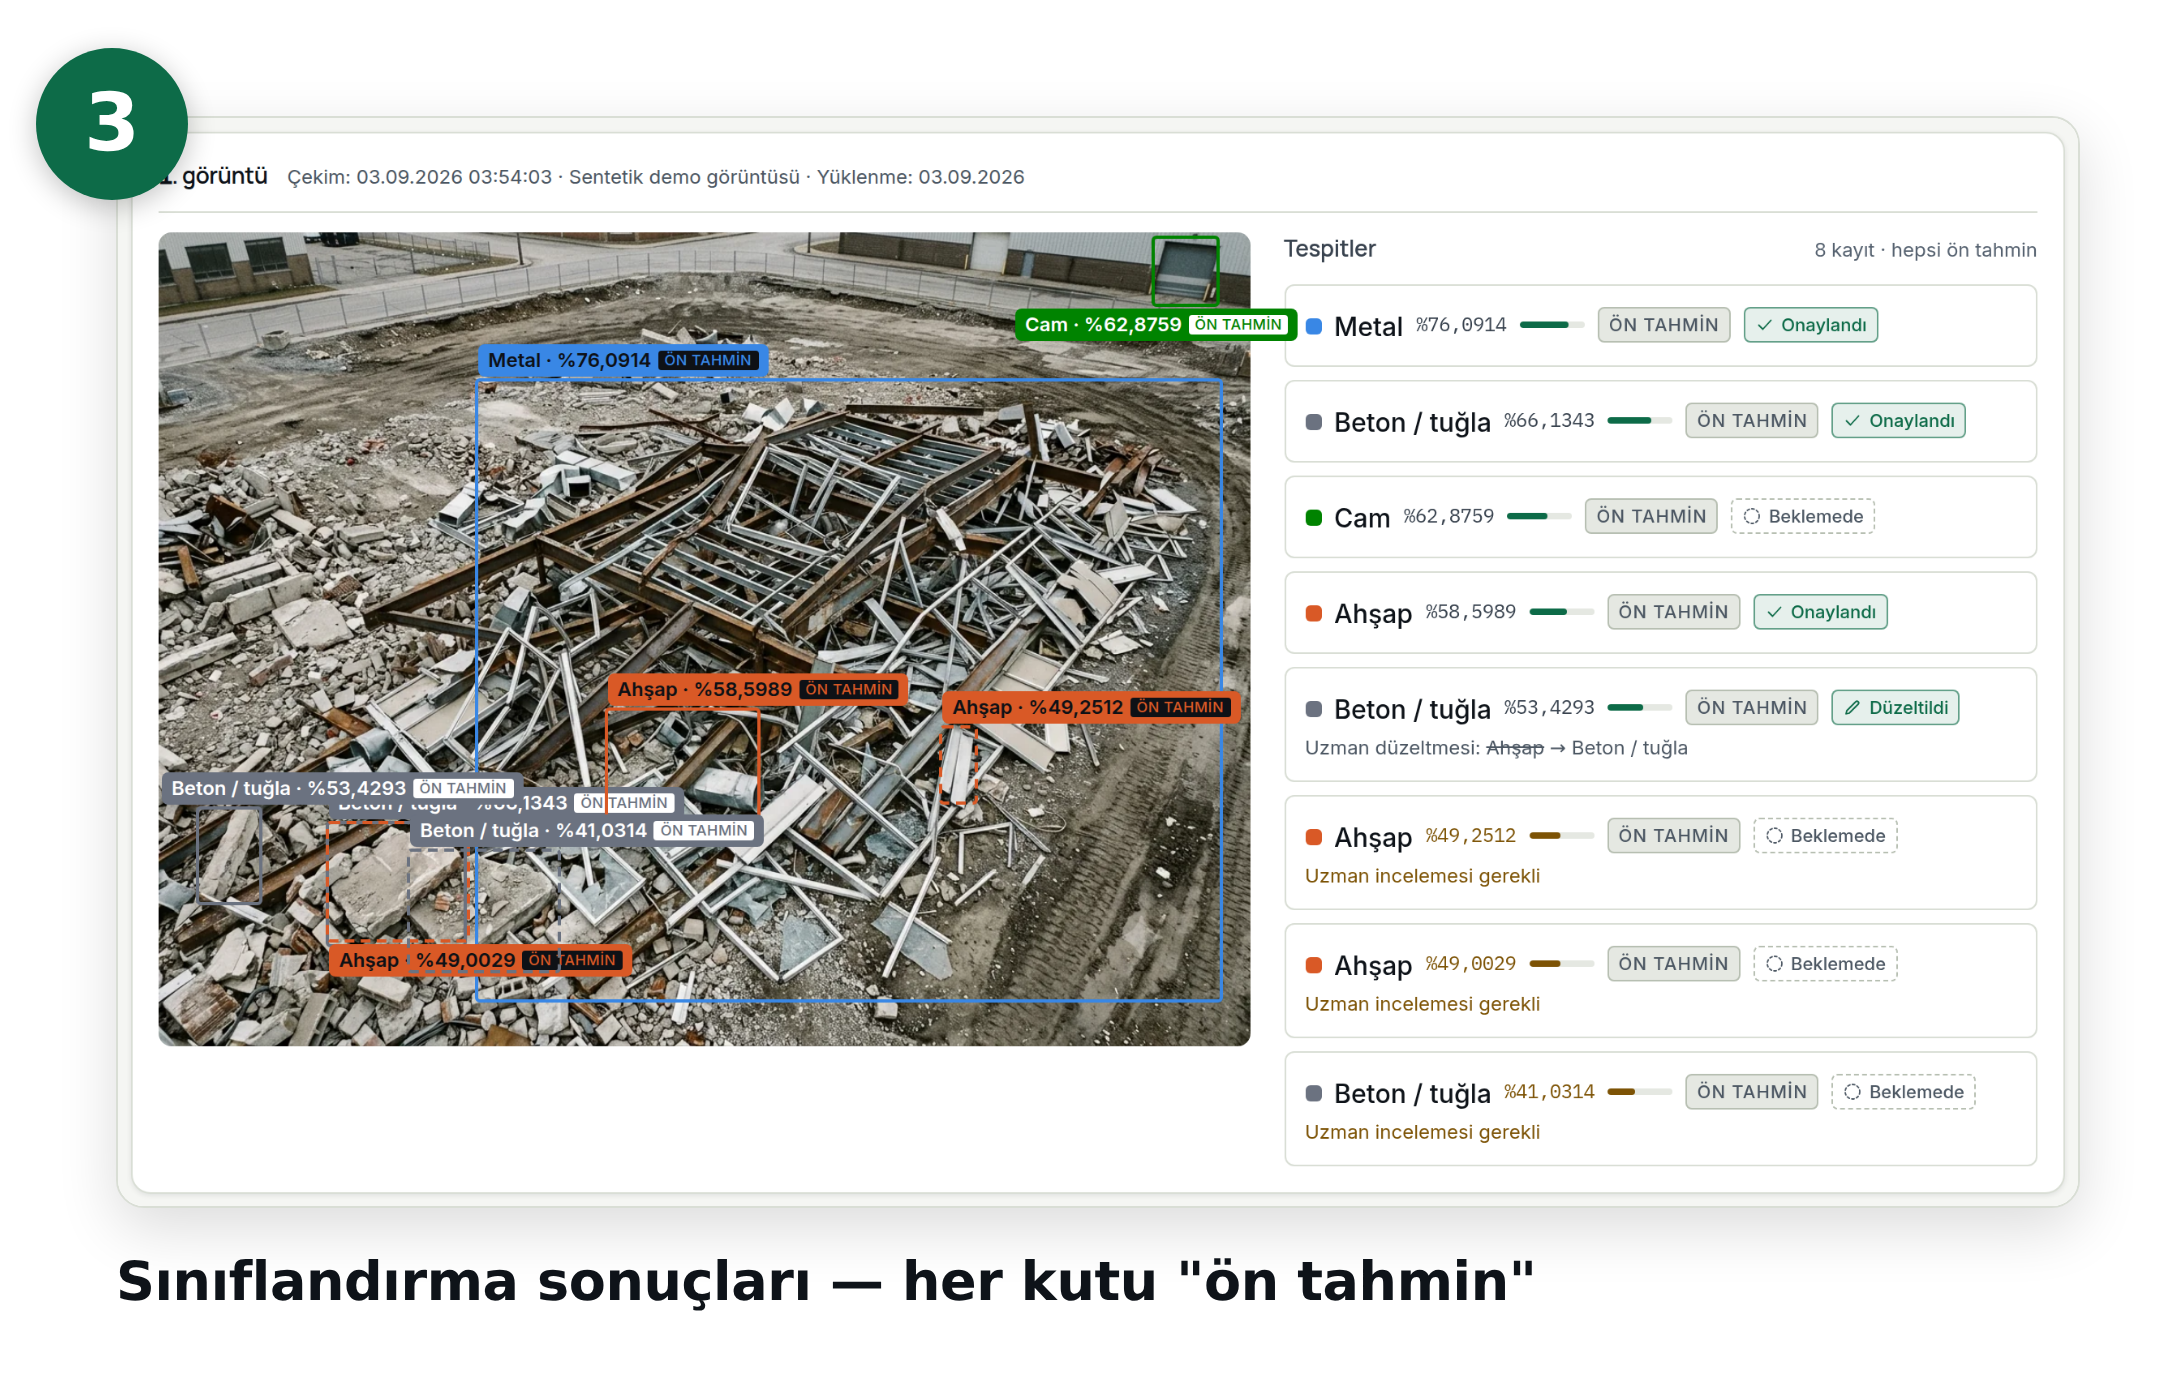
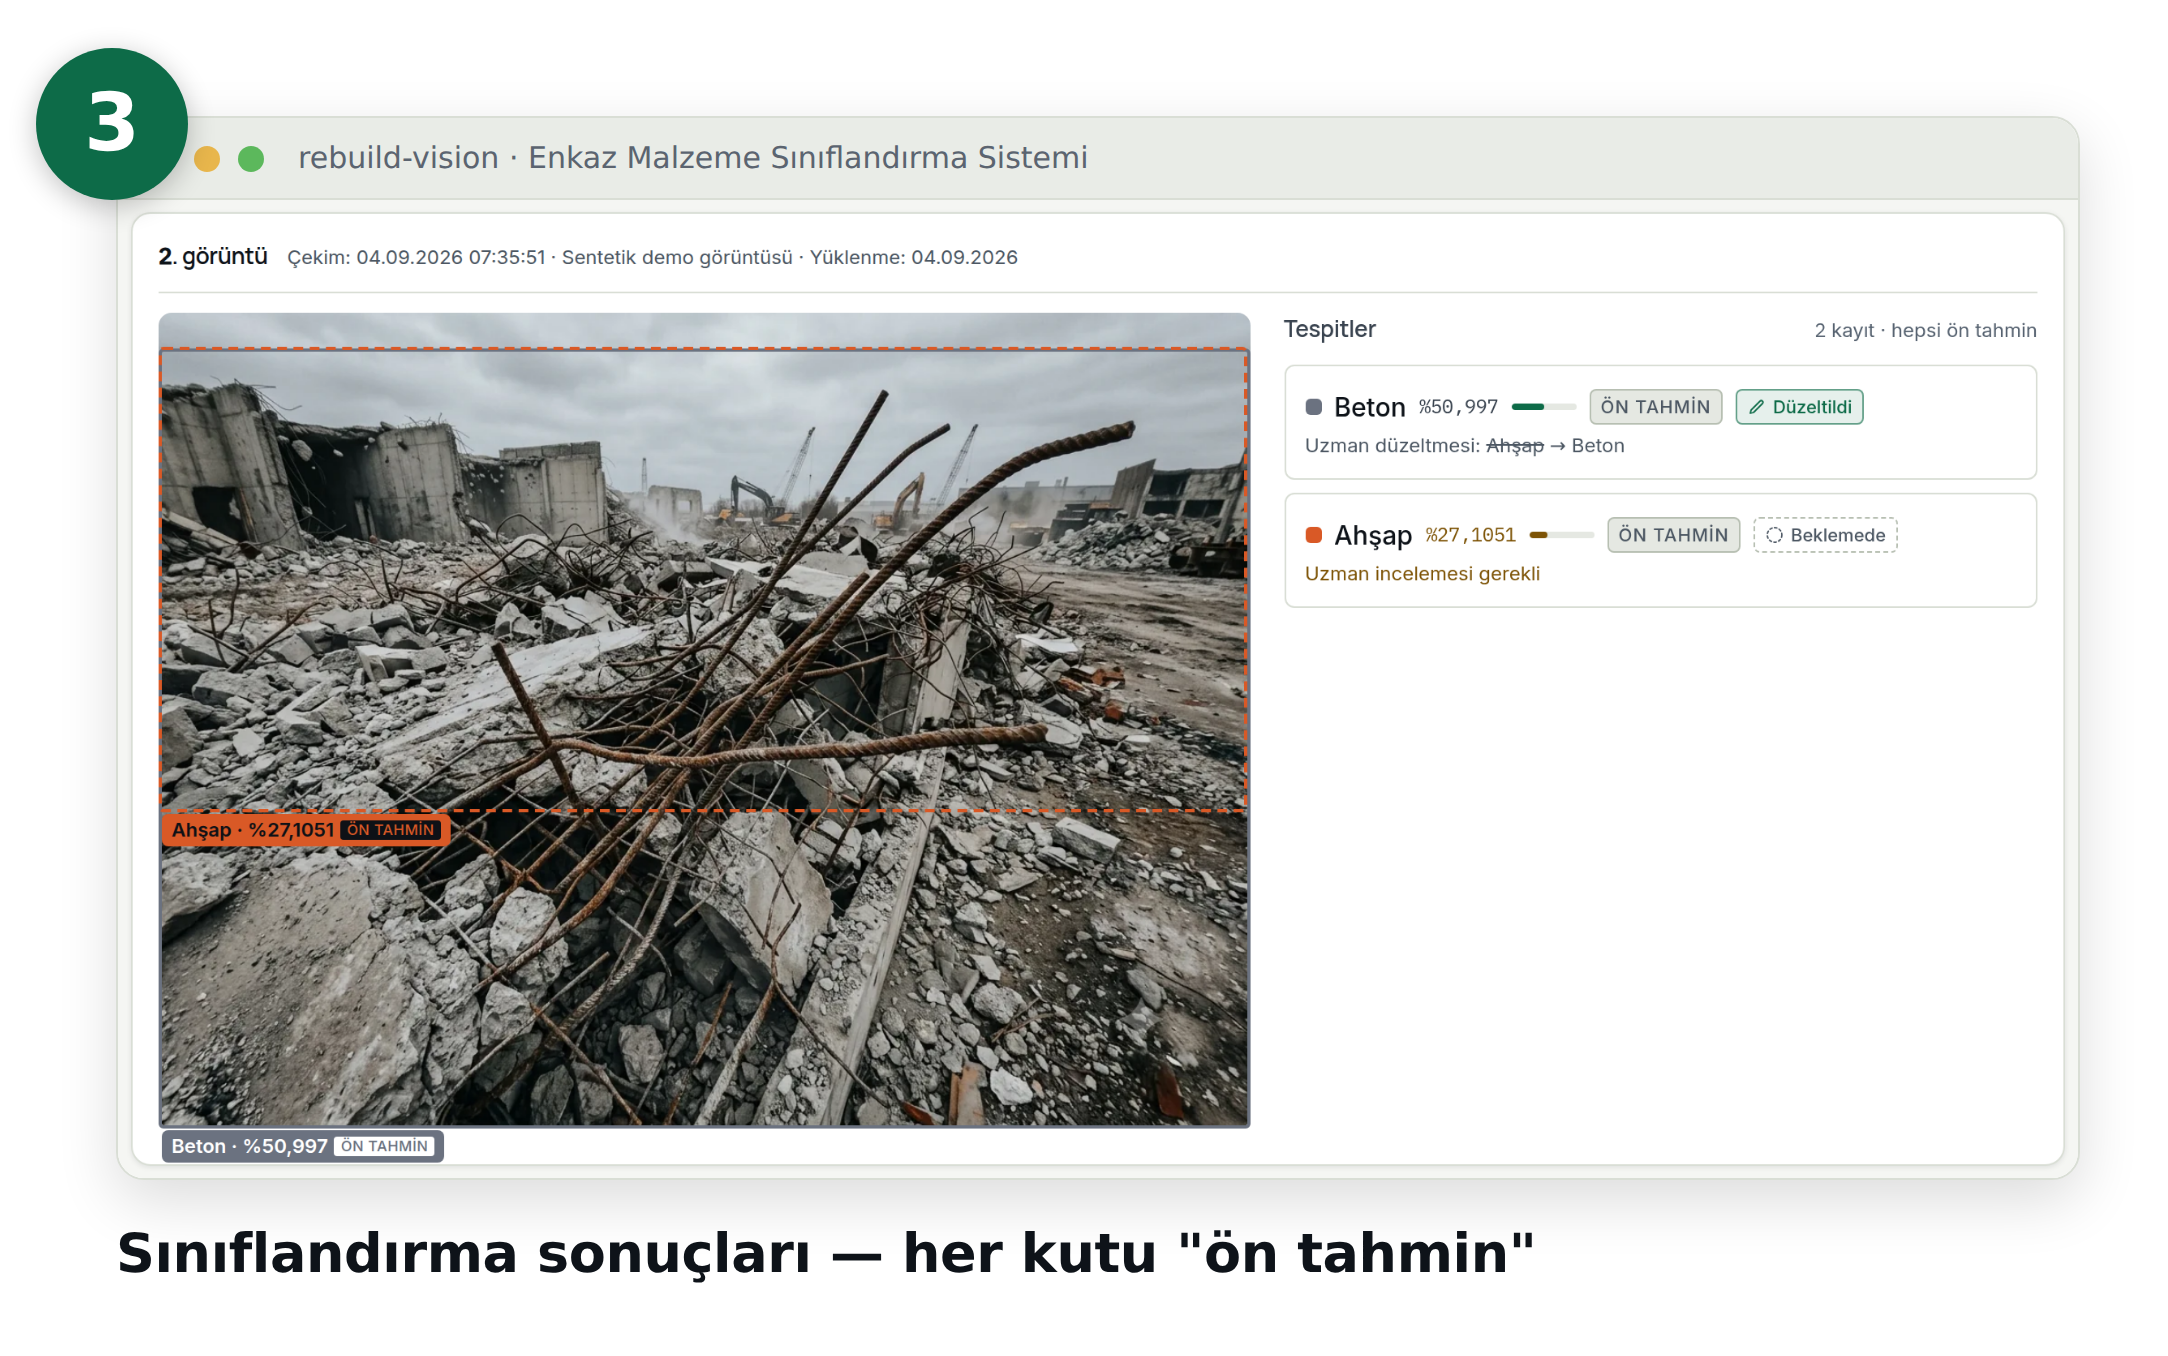
Android izinlerini düzelt, APK kurulum kılavuzu ekle, sunum görsellerini v2 ile yenile
RELEASE APK'da INTERNET izni yoktu. Flutter yalnızca src/debug ve
src/profile manifestlerine koyar; ana manifest boştu. `flutter run`
çalıştığı için fark edilmiyordu ama jüriye verilecek release APK'da
her API çağrısı sessizce ölürdü. Kamera, konum ve galeri izinleri de
hiç tanımlı değildi — image_picker ve geolocator cihazda izin
isteyemezdi.

- INTERNET, ACCESS_NETWORK_STATE, CAMERA, ACCESS_FINE/COARSE_LOCATION,
  READ_MEDIA_IMAGES ve READ_EXTERNAL_STORAGE (maxSdkVersion=32) eklendi
- Kamera ve konum `required="false"` — kamerasız tablette de kurulur
- Uygulama adı `rebuild_vision_mobil` → `ReBuild Vision`
- docs/apk-kurulumu.md: APK üretimi, cihaza kurulum, imzalama uyarısı
- Sunum görselleri v2 sınıflarıyla yeniden çekildi; kırpılmış kart
  çerçevesine ince üst şerit eklendi (rozet artık metni örtmüyor)

diff --git a/docs/apk-kurulumu.md b/docs/apk-kurulumu.md
@@ -1,0 +1,137 @@
+# APK üretimi ve cihaza kurulum
+
+**Şartname Madde 10.3** jürinin projeyi bağımsız bir ortamda
+çalıştırabilmesini istiyor. Web arayüzü `docker compose` ile kuruluyor;
+mobil taraf için jürinin eline **kurulabilir bir APK** geçmelidir.
+
+> ⚠ Bu belge yazıldığında APK **bu depoda üretilemedi**: geliştirme
+> ortamında Android SDK yok ve ağ politikası `dl.google.com` adresini
+> engelliyor (SDK indirilemiyor). Adımlar Android SDK'sı olan bir
+> makinede çalıştırılmalıdır. Manifest ve gradle yapılandırması
+> hazırdır ve doğrulanmıştır.
+
+---
+
+## 🔴 Önce bilinmesi gereken: bir arıza kapatıldı (04.09.2026)
+
+`INTERNET` izni yalnızca `android/app/src/debug/` ve `src/profile/`
+manifestlerinde tanımlıydı — Flutter'ın varsayılanı böyledir.
+
+Sonuç: `flutter run` çalışıyordu ama **release APK internet izni
+taşımıyordu.** Jüriye verilecek sürümde her API çağrısı sessizce
+başarısız olurdu; kullanıcı yalnızca "bağlantı yok" görürdü.
+
+Kamera ve konum izinleri de hiç tanımlı değildi; `image_picker` ve
+`geolocator` cihazda izin isteyemez ve çalışmazdı.
+
+`src/main/AndroidManifest.xml` artık şunları taşıyor:
+
+| İzin | Ne için |
+|---|---|
+| `INTERNET` | Sunucudaki modele görüntü göndermek, kayıtları eşitlemek |
+| `ACCESS_NETWORK_STATE` | Çevrimdışı kuyruğun ne zaman gönderileceğini bilmek |
+| `CAMERA` | Saha görüntüsü çekmek |
+| `ACCESS_FINE_LOCATION` · `ACCESS_COARSE_LOCATION` | Görüntünün çekildiği yer (İSTEĞE BAĞLI) |
+| `READ_MEDIA_IMAGES` | Galeriden seçim (Android 13+) |
+| `READ_EXTERNAL_STORAGE` (maxSdk 32) | Galeriden seçim (eski Android) |
+
+Kamera ve konum `uses-feature ... required="false"` ile işaretlidir:
+kamerasız bir tablete de kurulabilir, galeriden seçim çalışır.
+
+Uygulama adı da düzeltildi: cihazda `rebuild_vision_mobil` yerine
+**ReBuild Vision** görünür.
+
+---
+
+## APK üretimi
+
+### Gereken
+
+- Flutter SDK 3.13+ (`flutter doctor` temiz olmalı)
+- Android SDK (Android Studio ya da `commandlinetools`)
+- JDK 17
+
+### Komut
+
+Sunucu adresi **derleme sırasında** gömülür. Varsayılan
+`https://rebuild-vision-api.onrender.com`; başka bir adres için
+`--dart-define` verin.
+
+```bash
+cd mobile
+flutter pub get
+
+# Canlı sunucuya bağlanan sürüm (jüriye verilecek olan)
+flutter build apk --release
+
+# ya da kendi sunucunuza:
+flutter build apk --release \
+  --dart-define=API_TABAN=https://sizin-sunucunuz.example.com
+```
+
+Çıktı: `mobile/build/app/outputs/flutter-apk/app-release.apk`
+
+### Daha küçük APK (isteğe bağlı)
+
+```bash
+flutter build apk --release --split-per-abi
+```
+Üç ayrı APK üretir (`armeabi-v7a`, `arm64-v8a`, `x86_64`). Çoğu telefon
+ve tablet **arm64-v8a** ister. Tek dosya vermek istiyorsanız
+`--split-per-abi` KULLANMAYIN.
+
+---
+
+## ⚠ İmzalama — jüriye vermeden önce okuyun
+
+`android/app/build.gradle.kts` içinde release yapılandırması **hâlâ debug
+anahtarıyla** imzalıyor:
+
+```kotlin
+release {
+    // TODO: Add your own signing config for the release build.
+    signingConfig = signingConfigs.getByName("debug")
+}
+```
+
+Bu, **demo/prototip için kabul edilebilir** ve APK kurulur. Ama:
+
+- Google Play'e yüklenemez (kendi anahtarınız gerekir).
+- Debug anahtarı makineye özeldir; başka bir makinede üretilen APK
+  "farklı imza" sayılır ve üzerine güncelleme kurulmaz.
+
+Prototip teslimi için değiştirmeye gerek yok. Değiştirecekseniz
+`keytool -genkey` ile bir keystore üretip `signingConfigs`'e bağlayın ve
+**keystore'u depoya koymayın.**
+
+---
+
+## Cihaza kurulum
+
+### USB ile
+
+```bash
+adb install -r build/app/outputs/flutter-apk/app-release.apk
+```
+
+### Dosyayla (jüri için en pratik)
+
+APK'yı telefona/tablete kopyalayın ve dosya yöneticisinden açın.
+Android **"bilinmeyen kaynaklardan kurulum"** izni ister — bu normaldir
+ve Play Store dışından kurulan her APK için sorulur.
+
+### İlk açılışta
+
+Uygulama sırasıyla kamera, konum ve galeri izni isteyecektir. **Konumu
+reddetseniz de uygulama çalışır** — yalnızca koordinat kaydedilmez;
+yükleme yine yapılır.
+
+Demo hesapları: `docs/kurulum.md` Bölüm 8.
+
+---
+
+## Sürüm bilgisi
+
+`pubspec.yaml` içindeki `version:` alanı APK'nın `versionName` ve
+`versionCode` değerlerini belirler. Jüriye birden fazla sürüm
+verecekseniz her seferinde artırın, yoksa cihaz güncellemeyi reddeder.

diff --git a/README.md b/README.md
@@ -230,6 +230,7 @@ Teslim paketinde istenen belgeler (Madde 10.3) ve beyan yükümlülükleri:
 | 10.3 | Kurulum ve çalıştırılabilirlik | [`docs/kurulum.md`](docs/kurulum.md) · [`docs/kullanici-kilavuzu.md`](docs/kullanici-kilavuzu.md) · [`docker/`](docker/) |
 | 10.3 · 10.4 | Kütüphane ve lisans listesi | [`docs/lisans-analizi.md`](docs/lisans-analizi.md) |
 | 10.3 | Demo videosu | [`docs/demo-video.md`](docs/demo-video.md) |
+| 10.3 | **Mobil uygulama kurulumu (APK)** | [`docs/apk-kurulumu.md`](docs/apk-kurulumu.md) |
 | **10.5** | **Yapay zekâ beyanı** | [`docs/yapay-zeka-beyani.md`](docs/yapay-zeka-beyani.md) |
 | 10.8 | Teknik mimari, veri modeli, ölçeklenebilirlik | [`docs/mimari.md`](docs/mimari.md) · [`docs/veri-modeli.md`](docs/veri-modeli.md) |
 | 10.8 | Açık coğrafi standart | **OGC API - Features** → `/ogc` |
